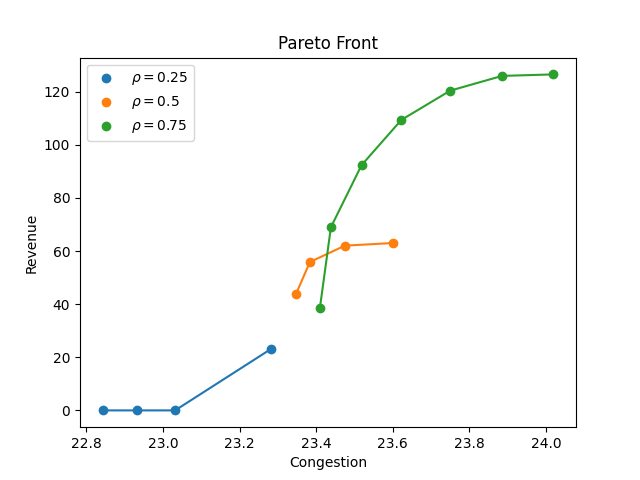
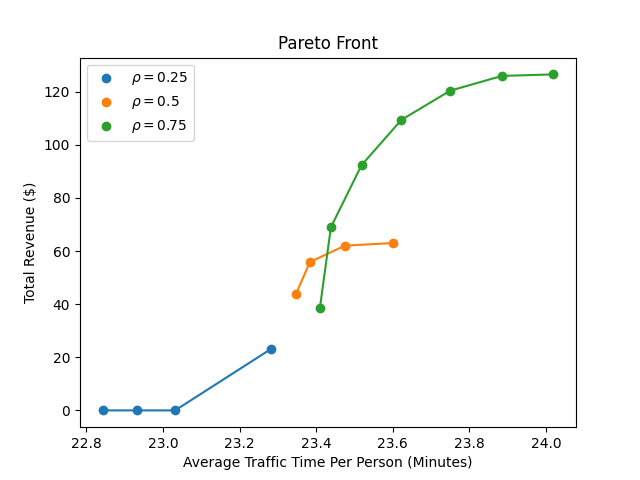
change labels

Changed region(s): [[0.2812, 0.9375, 0.75, 1.0], [0.0312, 0.375, 0.0625, 0.625]]

diff --git a/visualize.py b/visualize.py
@@ -30,8 +30,8 @@ df.to_csv("results_pareto.csv", index=False)
 df_pareto = df[df["pareto"] == 1]
 plt.scatter(df_pareto["congestion"], df_pareto["revenue"])
 plt.plot(df_pareto["congestion"], df_pareto["revenue"])
-plt.xlabel("Congestion")
-plt.ylabel("Revenue")
+plt.xlabel("Average Traffic Time Per Person (Minutes)")
+plt.ylabel("Total Revenue ($)")
 plt.title("Pareto Front")
 plt.savefig("pareto.png")
 plt.clf()
@@ -41,8 +41,8 @@ for rho in [0.25, 0.5, 0.75]:
     df_sub = df[(df["rho"] == rho) & (df["pareto_sep"] == 1)]
     plt.scatter(df_sub["congestion"], df_sub["revenue"], label = f"$\\rho = {rho}$")
     plt.plot(df_sub["congestion"], df_sub["revenue"])
-plt.xlabel("Congestion")
-plt.ylabel("Revenue")
+plt.xlabel("Average Traffic Time Per Person (Minutes)")
+plt.ylabel("Total Revenue ($)")
 plt.title("Pareto Front")
 plt.legend()
 plt.savefig("pareto_sep.png")
